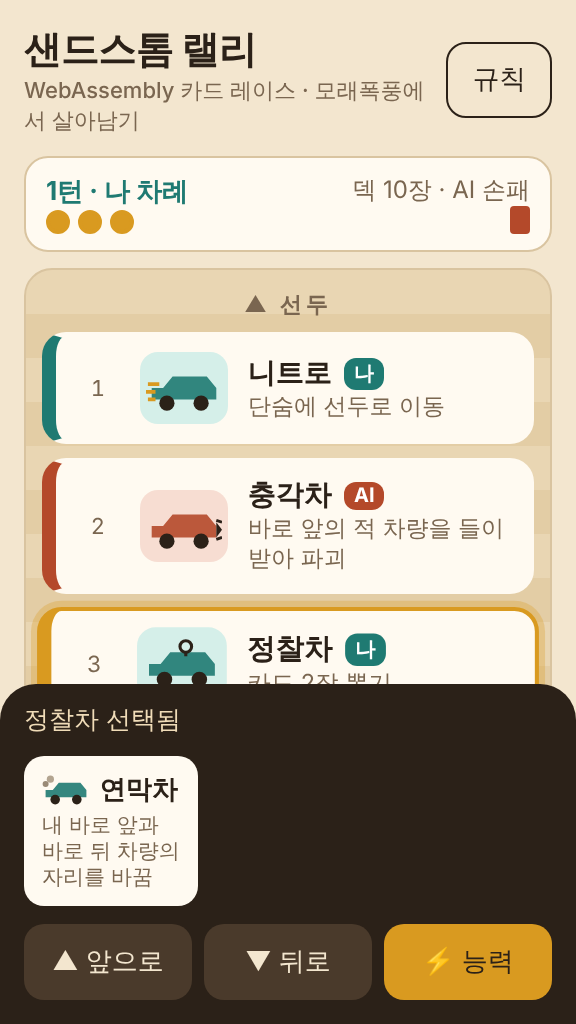
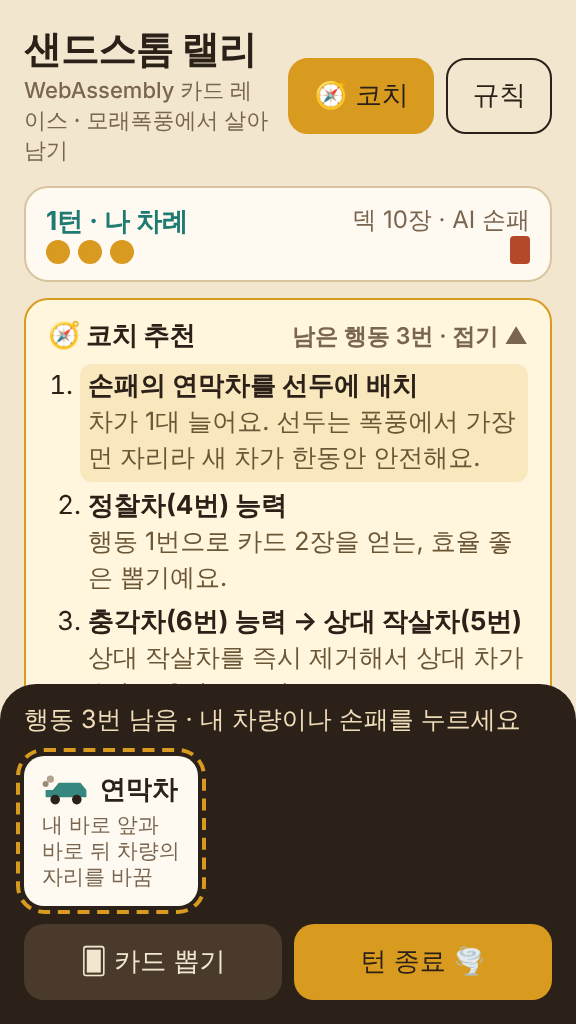
샌드스톰 랠리 v1.1.0: 초보자 코치
Claude-Session: https://claude.ai/code/session_01Vp5uBGxMjyqx1U5W7dVW9o

diff --git a/sandstorm-rally/index.html b/sandstorm-rally/index.html
@@ -71,6 +71,21 @@ h1 small{display:block;font-size:11px;color:var(--muted);font-weight:500;letter-
 .row{display:flex;gap:6px}
 .row .btn{flex:1;background:#4a3a2b;color:var(--sand);padding:10px 4px;font-size:13px}
 .row .btn.pri{background:var(--gold);color:var(--ink)}
+.coach{margin:0 0 10px;background:#fff6dd;border:1.5px solid var(--gold);border-radius:12px;padding:9px 11px;font-size:13px;line-height:1.45}
+.coach .hd{display:flex;align-items:center;justify-content:space-between;gap:8px;font-weight:800;margin-bottom:4px}
+.coach .hd small{font-weight:600;color:var(--muted);font-size:11.5px}
+.coach ol{margin:4px 0 6px;padding-left:20px}
+.coach li{margin:3px 0}
+.coach li b{font-weight:700}
+.coach li .why{display:block;color:#6b5636;font-size:12.5px}
+.coach li.now{background:rgba(217,154,32,.16);border-radius:6px;padding:2px 4px;margin-left:-4px}
+.coach .sum{border-top:1px dashed var(--line);padding-top:6px;margin-top:4px}
+.coach .warn{color:var(--ai);font-weight:600;margin-top:3px}
+.coach .tip{color:var(--muted);font-size:12px;margin-top:5px}
+.coach .go{margin-top:7px;width:100%;background:var(--gold);color:var(--ink)}
+.car.coachhint,.hc.coachhint,.btn.coachhint{outline:2.5px dashed var(--gold);outline-offset:2px}
+.btn.ghost.on{background:var(--gold);border-color:var(--gold)}
+.hdr-btns{display:flex;gap:6px}
 .modal{position:fixed;inset:0;background:rgba(43,33,24,.55);display:none;align-items:center;justify-content:center;padding:16px;z-index:9}
 .modal.show{display:flex}
 .sheet{background:var(--card);border-radius:16px;max-width:440px;width:100%;max-height:86vh;overflow:auto;padding:16px 16px 14px}
@@ -90,12 +105,13 @@ h1 small{display:block;font-size:11px;color:var(--muted);font-weight:500;letter-
 <div id="app">
   <header>
     <h1>샌드스톰 랠리<small>WebAssembly 카드 레이스 · 모래폭풍에서 살아남기</small></h1>
-    <button class="btn ghost" id="rulesBtn">규칙</button>
+    <div class="hdr-btns"><button class="btn ghost on" id="coachBtn">🧭 코치</button><button class="btn ghost" id="rulesBtn">규칙</button></div>
   </header>
   <div class="status">
     <div><div class="turn" id="turn"></div><div class="pips" id="pips"></div></div>
     <div class="meta"><div id="deck"></div><div class="aihand" id="aihand"></div></div>
   </div>
+  <div class="coach" id="coach" hidden></div>
   <div class="road" id="road"></div>
   <div class="log" id="log"></div>
 </div>
@@ -126,7 +142,7 @@ h1 small{display:block;font-size:11px;color:var(--muted);font-weight:500;letter-
 </div></div>
 
 <script>
[2 lines of base64/hex data omitted]
 const A = {DRAW:0, PLAY:1, MOVE:2, ABIL:3, END:4};
 const TYPES = [
   {n:"충각차", d:"바로 앞의 적 차량을 들이받아 파괴", g:"ram"},
@@ -161,10 +177,10 @@ const $ = id => document.getElementById(id);
 const who = p => mode === 1 ? (p === 0 ? "파랑 팀" : "빨강 팀") : (p === 0 ? "나" : "AI");
 
 function readState(){
-  const s = new Int32Array(E.memory.buffer, E.state(), 14 + 24*4);
+  const s = new Int32Array(E.memory.buffer, E.state(), 14 + 24*5);
   const st = {len:s[0], cur:s[1], actions:s[2], winner:s[3], dn:s[4], turn:s[5], hn:[s[6],s[7]],
     hand:[[s[8],s[9],s[10]].slice(0,s[6]), [s[11],s[12],s[13]].slice(0,s[7])], cars:[]};
-  for(let i=0;i<st.len;i++) st.cars.push({type:s[14+i*4], owner:s[15+i*4], armor:s[16+i*4], used:s[17+i*4]});
+  for(let i=0;i<st.len;i++){ const o=14+i*5; st.cars.push({type:s[o], owner:s[o+1], armor:s[o+2], used:s[o+3], id:s[o+4]}); }
   return st;
 }
 const human = () => mode === 1 || S.cur === 0;
@@ -270,6 +286,7 @@ function render(flashIdx=-1){
     $("end").onclick=()=>endTurn();
   }
   $("hint").textContent = hint;
+  renderCoach();
 }
 
 function tapCar(i){
@@ -308,6 +325,144 @@ function showEnd(){
   $("endText").textContent = mode===1 ? `${S.turn-1}턴 만에 결판이 났어요.` : (w===0 ? `${S.turn-1}턴 만에 AI 팀을 폭풍 속으로 밀어 넣었어요.` : "AI 팀이 끝까지 살아남았어요. 다시 도전해 보세요!");
   $("endM").classList.add("show");
 }
+
+// ---------------- Coach ----------------
+let coachOn = true, coachOpen = true, coachCache = {key:"", data:null};
+const nm = c => TYPES[c.type].n;
+const josa = (w, a, b) => { const ch = w.charCodeAt(w.length-1); return ((ch-0xac00)%28 ? a : b); }; // 받침 유무
+const eul = w => w + josa(w,"을","를"), iga = w => w + josa(w,"이","가"), eun = w => w + josa(w,"은","는");
+const owned = (c, me) => (c.owner===me ? "내 " : "상대 ") + nm(c);
+const rearOf = st => st.cars[st.len-1];
+const cnt = (st,p) => st.cars.filter(c=>c.owner===p).length;
+const idxOf = (st,id) => st.cars.findIndex(c=>c.id===id);
+
+function stepLabel(st,k,a,b,me){
+  if(k===A.DRAW) return "카드 뽑기";
+  if(k===A.PLAY) return `손패의 ${eul(TYPES[st.hand[me][a]].n)} 선두에 배치`;
+  if(k===A.MOVE) return `${nm(st.cars[a])}(${a+1}번) ${b===0?"앞으로":"뒤로"} 한 칸`;
+  if(k===A.ABIL){
+    const c = st.cars[a];
+    const ti = c.type===0 ? a-1 : c.type===3 ? a+1 : b;
+    const t = ti>=0 ? st.cars[ti] : null;
+    return `${nm(c)}(${a+1}번) 능력` + (t ? ` → ${owned(t,me)}(${ti+1}번)` : "");
+  }
+  return "턴 종료";
+}
+
+// Why is this step good? Compare the board right before and right after it.
+function stepWhy(bf, af, k, a, b, me, later){
+  const why = [];
+  const gone = bf.cars.filter(c => idxOf(af,c.id) < 0);
+  const goneOpp = gone.filter(c=>c.owner!==me), goneMine = gone.filter(c=>c.owner===me);
+  const actor = (k===A.MOVE||k===A.ABIL) ? bf.cars[a] : null;
+  const setsUp = actor && later.some(s => s.k===A.ABIL && s.actorId===actor.id);
+
+  if(goneOpp.length){
+    why.push(`상대 ${goneOpp.map(c=>eul(nm(c))).join(", ")} 즉시 제거해서 상대 차가 ${cnt(bf,1-me)}대 → ${cnt(af,1-me)}대로 줄어요.`);
+    if(goneMine.length) why.push(`${eun(nm(goneMine[0]))} 함께 소모되지만, 상대를 0대로 몰아가는 데엔 확실한 1대 제거가 더 값져요.`);
+  }
+  if(k===A.PLAY) why.push("차가 1대 늘어요. 선두는 폭풍에서 가장 먼 자리라 새 차가 한동안 안전해요.");
+  if(k===A.DRAW) why.push("손패가 늘면 다음 턴에 차를 보충하거나 능력을 고를 선택지가 생겨요. 남는 행동은 뽑기에 쓰는 게 기본이에요.");
+  if(k===A.ABIL && actor.type===7) why.push("행동 1번으로 카드 2장을 얻는, 효율 좋은 뽑기예요.");
+  if(k===A.ABIL && actor.type===2) why.push(`${eun(nm(actor))} 단숨에 선두로 가서 폭풍에서 가장 멀어져요.`);
+  if(k===A.ABIL && actor.type===1) { const t=bf.cars[b]; why.push(`${eul("상대 "+nm(t))} 내 뒤로 끌어와 폭풍 쪽으로 보내요.`); }
+  if(k===A.ABIL && actor.type===4) { const t=bf.cars[b]; why.push(`내 ${eul(nm(t))} 앞쪽으로 끌어와 폭풍에서 떼어놔요.`); }
+  if(k===A.ABIL && actor.type===3) { const t=bf.cars[a+1]; why.push(`바로 뒤의 ${eul(owned(t,me))} 2칸 뒤로 밀어 폭풍 쪽으로 보내요.`); }
+  if(k===A.ABIL && actor.type===8) why.push("앞뒤 차의 자리를 바꿔 맨 뒤 순서를 내게 유리하게 만들어요.");
+  if(k===A.MOVE){
+    const other = bf.cars[b===0 ? a-1 : a+1];
+    if(b===0 && other.owner!==me) why.push(`앞에 있던 ${eul("상대 "+nm(other))} 내 뒤로 밀어내요.`);
+    else if(b===0) why.push(`${eul(nm(actor))} 폭풍에서 한 칸 멀리 떨어뜨려요.`);
+    else if(other.owner!==me) why.push(`뒤에 있던 ${eul("상대 "+nm(other))} 앞으로 보내는 대신 내 차 위치를 조정해요.`);
+    else why.push("내 차끼리 순서를 바꿔 더 중요한 차를 앞쪽에 둬요.");
+  }
+  if(setsUp){
+    const nxt = later.find(s=>s.k===A.ABIL && s.actorId===actor.id);
+    why.push(`다음 단계에서 ${nm(actor)} 능력을 쓸 수 있는 자리를 만드는 준비 동작이에요 (${nxt.short}).`);
+  }
+  // Effect on who the storm will take at the end of this turn
+  const r0 = rearOf(bf), r1 = rearOf(af);
+  if(r0 && r1 && r0.id!==r1.id && k!==A.PLAY && k!==A.DRAW){
+    if(r0.owner===me && r1.owner!==me) why.push(`이제 턴이 끝날 때 폭풍에 삼켜질 맨 뒤 차가 내 ${nm(r0)} → 상대 ${iga(nm(r1))} 돼요.`);
+    else if(r1.owner===me && r1.type===6 && r1.armor) why.push(`장갑이 남은 내 장갑차를 맨 뒤에 둬서, 폭풍이 차 대신 장갑만 벗겨가게 해요.`);
+    else if(r1.owner===me && r0.owner===me) why.push(`폭풍에 내줄 맨 뒤 차를 ${nm(r0)}에서 ${nm(r1)}(으)로 바꿔요.`);
+  }
+  if(!why.length) why.push("다음 행동을 위한 준비예요.");
+  return why.join(" ");
+}
+
+function buildCoach(){
+  const me = S.cur;
+  const o = new Int32Array(E.memory.buffer, E.coach(), 12);
+  const n = o[0], plan = [];
+  for(let i=0;i<n;i++) plan.push({k:o[3+i*3], a:o[4+i*3], b:o[5+i*3]});
+  E.save();
+  // baseline: end the turn right now
+  const start = readState();
+  E.sim(A.END,0,0); const base = readState(); E.restore();
+  // walk the plan
+  const steps = []; let st = start;
+  for(const p of plan){
+    const actor = (p.k===A.MOVE||p.k===A.ABIL) ? st.cars[p.a] : null;
+    steps.push({...p, before:st, actorId: actor ? actor.id : -1, label: stepLabel(st,p.k,p.a,p.b,me)});
+    E.sim(p.k,p.a,p.b); st = readState(); steps[steps.length-1].after = st;
+  }
+  const preStorm = st;
+  E.sim(A.END,0,0); const fin = readState(); E.restore();
+  steps.forEach((s,i)=>{
+    s.short = s.label;
+    s.why = stepWhy(s.before, s.after, s.k, s.a, s.b, me, steps.slice(i+1).map(x=>({...x, short:x.label})));
+  });
+
+  // Summary: plan vs. ending now
+  const sum = [];
+  const rb = rearOf(start), rp = rearOf(preStorm);
+  const tag = c => c ? owned(c,me) : "없음";
+  const hit = c => (c.type===6 && c.armor) ? `${tag(c)}의 <b>장갑만</b> 벗겨내서` : `<b>${eul(tag(c))}</b> 삼켜서`;
+  if(fin.winner===me) sum.push("🏁 이 수순이면 이번 턴에 바로 <b>승리</b>해요!");
+  if(rb) sum.push(`지금 바로 턴을 끝내면 폭풍이 ${hit(rb)} <b>나 ${cnt(base,me)} : 상대 ${cnt(base,1-me)}</b>.`);
+  if(n && rp) sum.push(`추천대로 하면 폭풍이 ${hit(rp)} <b>나 ${cnt(fin,me)} : 상대 ${cnt(fin,1-me)}</b>` + (fin.hn[me]>start.hn[me] ? `, 손패도 ${fin.hn[me]}장으로 늘어요.` : "."));
+  if(!n) sum.push("지금은 행동을 써도 상황이 나아지지 않아요. 바로 턴을 끝내는 게 최선이에요.");
+  let warn = "";
+  if(fin.winner<0 && fin.len){
+    const r = rearOf(fin);
+    if(r.owner===me) warn = `⚠ 다음 상대 턴이 끝나면 맨 뒤의 내 ${eun(nm(r))} 위험해요 — 상대가 손대지 않으면 폭풍에 삼켜져요.`;
+  }
+  return {plan, steps, sum, warn, me};
+}
+
+const TIPS = [
+  "핵심 원리: 턴이 끝날 때 <b>맨 뒤 차</b>가 사라져요. 맨 뒤에 상대 차를 두고 턴을 끝내는 게 기본이에요.",
+  "차 수가 곧 체력이에요. 선두에 차를 배치하면 체력이 1 늘어요.",
+  "행동이 남으면 카드 뽑기라도 하세요. 손패는 다음 턴의 무기예요.",
+  "충각차·박격포처럼 차를 바로 없애는 능력은 자리 조건이 있어요. 미리 자리를 잡아두세요.",
+  "장갑차는 폭풍을 한 번 버티니 맨 뒤에 둬도 한 턴은 안전해요.",
+];
+
+function renderCoach(){
+  const box = $("coach");
+  if(!coachOn || !S || S.winner>=0 || busy || !human() || targeting!==null){ box.hidden = true; return; }
+  const key = JSON.stringify([S.turn,S.cur,S.actions,S.cars.map(c=>[c.id,c.used,c.armor]),S.hand]);
+  if(coachCache.key!==key) coachCache = {key, data: buildCoach()};
+  const d = coachCache.data;
+  box.hidden = false;
+  const steps = d.steps.map((s,i)=>`<li class="${i===0?"now":""}"><b>${s.label}</b><span class="why">${s.why}</span></li>`).join("");
+  box.innerHTML = `<div class="hd" id="coachHd" style="cursor:pointer">🧭 코치 추천 <small>남은 행동 ${S.actions}번 · ${coachOpen?"접기 ▲":"설명 보기 ▼"}</small></div>
+    ${coachOpen ? `${d.plan.length ? `<ol>${steps}<li><b>턴 종료</b></li></ol>` : ""}
+    <div class="sum">${d.sum.join("<br>")}${d.warn?`<div class="warn">${d.warn}</div>`:""}</div>
+    <div class="tip">💡 ${TIPS[(S.turn+S.actions)%TIPS.length]}</div>` : ""}
+    <button class="btn go" id="coachGo">${d.plan.length ? "추천 1단계 실행: "+d.steps[0].label : "턴 종료"}</button>`;
+  $("coachHd").onclick = () => { coachOpen = !coachOpen; renderCoach(); };
+  $("coachGo").onclick = () => { if(d.plan.length){ const p=d.plan[0]; doAct(p.k,p.a,p.b); } else endTurn(); };
+  // highlight the first recommended step on the board / hand
+  if(d.plan.length){
+    const p = d.plan[0];
+    if(p.k===A.MOVE||p.k===A.ABIL) $("road").querySelector(`.car[data-i="${p.a}"]`)?.classList.add("coachhint");
+    if(p.k===A.PLAY) $("hand").querySelector(`.hc[data-h="${p.a}"]`)?.classList.add("coachhint");
+    if(p.k===A.DRAW) $("draw")?.classList.add("coachhint");
+  } else $("end")?.classList.add("coachhint");
+}
+
 function closeM(id){ $(id).classList.remove("show"); }
 function start(m){
   mode = m; logs = []; sel = handSel = targeting = null; busy = false;
@@ -320,6 +475,7 @@ function start(m){
   if(mode===0 && S.cur===1) aiTurn();
 }
 
+$("coachBtn").onclick=()=>{ coachOn=!coachOn; $("coachBtn").classList.toggle("on",coachOn); render(); };
 $("rulesBtn").onclick=()=>$("rules").classList.add("show");
 $("typesList").innerHTML = TYPES.map((t,i)=>`<div>${glyph(i)}<span><b>${t.n}</b> — ${t.d}</span></div>`).join("");
 $("rules").onclick = e => { if(e.target.id==="rules") closeM("rules"); };

diff --git a/index.html b/index.html
@@ -413,16 +413,16 @@ footer a { color: inherit; }
     </li>
     <li>
       <a class="app" href="./sandstorm-rally/">
-        <img class="cover smooth" src="./sandstorm-rally/cover.png" width="288" height="512" alt="샌드스톰 랠리 on a phone: a single-file caravan of teal and rust-red cars on a sandy road, a scout car selected, with a dust storm band below and action buttons at the bottom">
+        <img class="cover smooth" src="./sandstorm-rally/cover.png" width="288" height="512" alt="샌드스톰 랠리 on a phone: a gold coach panel recommending a three-step plan with reasons above a caravan of teal and rust-red cars on a sandy road">
         <div class="body">
           <h2 class="name">샌드스톰 랠리</h2>
-          <p class="desc">A two-team card race against a dust storm. Spend three actions a turn to draw, launch cars at the front, shuffle your caravan and fire nine original car abilities, while the storm swallows the rearmost car every turn. Play an AI that searches every action combination, or pass-and-play. Korean UI.</p>
+          <p class="desc">A two-team card race against a dust storm. Spend three actions a turn to draw, launch cars at the front, shuffle your caravan and fire nine original car abilities, while the storm swallows the rearmost car every turn. A beginner coach lays out the best plan for your remaining actions, explains why each step helps and compares it with ending the turn now. Play an AI that searches every action combination, or pass-and-play. Korean UI.</p>
           <ul class="facts" aria-label="Build facts">
             <li>C → wasm32</li>
             <li>8 KB binary</li>
-            <li>AI + hotseat</li>
+            <li>AI + coach</li>
             <li>touch</li>
-            <li>v1.0.0 · 2026-10-30</li>
+            <li>v1.1.0 · 2026-10-30</li>
           </ul>
           <span class="play">Play →</span>
         </div>
